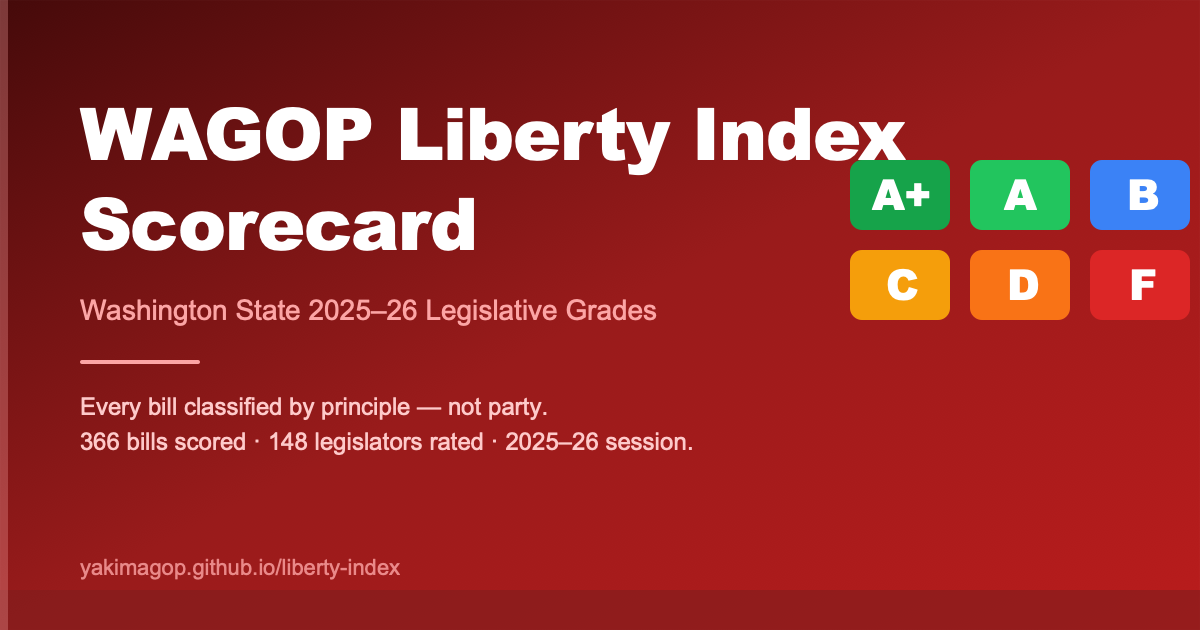
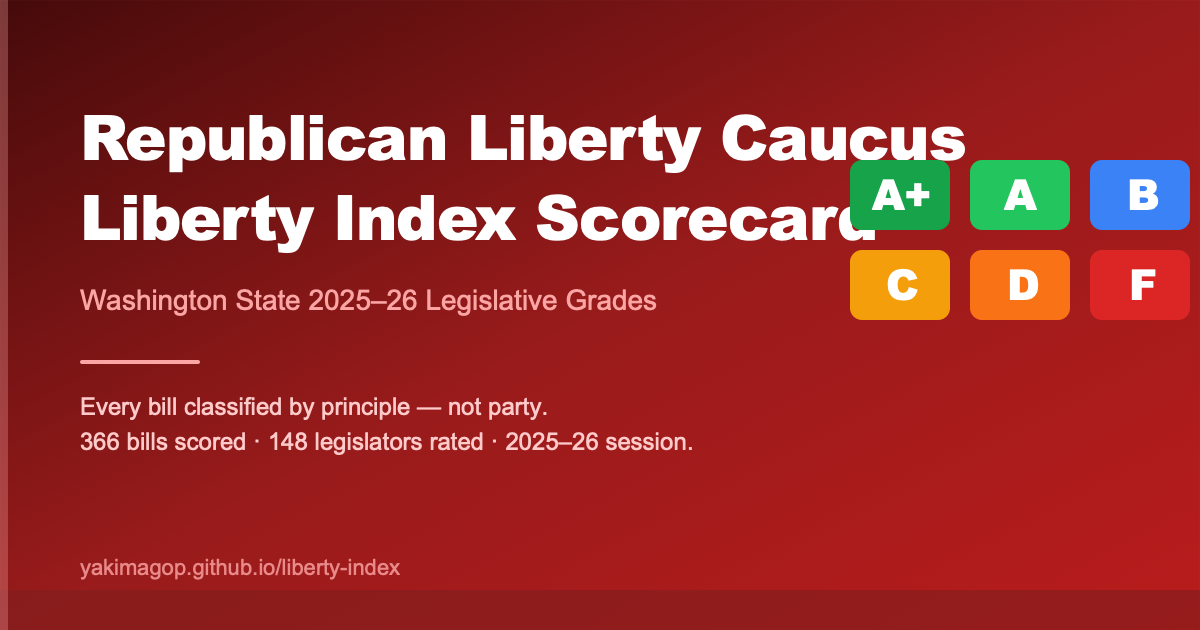
Rebrand from WAGOP to Republican Liberty Caucus of Washington
- Replace WAGOP logo with RLC Washington circular seal (rlc-logo.png)
- Update all headers, alt text, site name, and metadata descriptions
- Update OG image title text to "Republican Liberty Caucus Liberty Index"
- Header subtitle now reads "Republican Liberty Caucus of Washington · 2025–26"

Changed region(s): [[0.0617, 0.1508, 0.8017, 0.3016], [0.0617, 0.3016, 0.74, 0.4222], [0.0617, 0.4524, 0.555, 0.5127]]

diff --git a/src/app/methodology/page.tsx b/src/app/methodology/page.tsx
@@ -4,9 +4,9 @@ import { getScoreData } from "@/lib/data";
 
 export const metadata: Metadata = {
   title: "Scoring Methodology",
-  description: "How the WAGOP Liberty Index works: bill classification by conservative principle, category weights calibrated to the 2024 RNC and WA State Republican Party platforms, and normalization to a 0–100 score.",
+  description: "How the RLC Washington Liberty Index works: bill classification by conservative principle, category weights calibrated to the 2024 RNC and WA State Republican Party platforms, and normalization to a 0–100 score.",
   openGraph: {
-    title: "Scoring Methodology | WAGOP Liberty Index Scorecard",
+    title: "Scoring Methodology | RLC Washington Liberty Index Scorecard",
     description: "How every bill is classified by principle and every legislator is scored — weights calibrated to the 2024 RNC and WA State Republican Party platforms.",
     url: "https://yakimagop.github.io/liberty-index/methodology",
   },
@@ -22,7 +22,7 @@ export default function MethodologyPage() {
           <Link href="/" className="text-red-300 hover:text-white text-sm transition-colors">← Back to Scorecard</Link>
           <span className="text-red-700">|</span>
           {/* eslint-disable-next-line @next/next/no-img-element */}
-          <img src={`${process.env.NEXT_PUBLIC_BASE_PATH ?? ""}/wagop-logo.png`} alt="WAGOP Liberty Index Scorecard" width={100} height={29} className="brightness-0 invert opacity-80" />
+          <img src={`${process.env.NEXT_PUBLIC_BASE_PATH ?? ""}/rlc-logo.png`} alt="RLC Washington Liberty Index Scorecard" width={40} height={40} className="rounded-full" />
         </div>
       </header>
 

diff --git a/src/app/page.tsx b/src/app/page.tsx
@@ -18,10 +18,10 @@ export default function HomePage() {
         <div className="max-w-7xl mx-auto px-4 sm:px-6 lg:px-8 py-3 flex items-center justify-between gap-3">
           <div className="flex items-center gap-3 min-w-0">
             {/* eslint-disable-next-line @next/next/no-img-element */}
-            <img src={`${process.env.NEXT_PUBLIC_BASE_PATH ?? ""}/wagop-logo.png`} alt="Washington State Republican Party" width={120} height={35} className="brightness-0 invert flex-shrink-0" />
+            <img src={`${process.env.NEXT_PUBLIC_BASE_PATH ?? ""}/rlc-logo.png`} alt="Republican Liberty Caucus of Washington" width={48} height={48} className="rounded-full flex-shrink-0" />
             <div className="border-l border-red-700 pl-3 hidden sm:block">
               <h1 className="text-lg font-bold tracking-tight leading-tight whitespace-nowrap">Liberty Index Scorecard</h1>
-              <p className="text-red-300 text-xs mt-0.5">Washington State 2025–26 Legislative Grades</p>
+              <p className="text-red-300 text-xs mt-0.5">Republican Liberty Caucus of Washington · 2025–26</p>
             </div>
           </div>
           <nav className="flex-shrink-0">

diff --git a/src/app/rep/[id]/page.tsx b/src/app/rep/[id]/page.tsx
@@ -105,7 +105,7 @@ export default async function RepPage({ params }: { params: Promise<{ id: string
           <Link href="/" className="text-red-300 hover:text-white text-sm transition-colors">← All Legislators</Link>
           <span className="text-red-700">|</span>
           {/* eslint-disable-next-line @next/next/no-img-element */}
-          <img src={`${process.env.NEXT_PUBLIC_BASE_PATH ?? ""}/wagop-logo.png`} alt="WAGOP Liberty Index Scorecard" width={100} height={29} className="brightness-0 invert opacity-80" />
+          <img src={`${process.env.NEXT_PUBLIC_BASE_PATH ?? ""}/rlc-logo.png`} alt="RLC Washington Liberty Index Scorecard" width={40} height={40} className="rounded-full opacity-90" />
         </div>
       </header>
 

diff --git a/src/app/layout.tsx b/src/app/layout.tsx
@@ -8,9 +8,9 @@ const geistSans = Geist({
 });
 
 const SITE_URL = "https://yakimagop.github.io/liberty-index";
-const SITE_NAME = "WAGOP Liberty Index Scorecard";
+const SITE_NAME = "RLC Washington Liberty Index Scorecard";
 const DESCRIPTION =
-  "Washington State Republican Party Liberty Index — principled conservative grades for every WA legislator based on 2025–26 session floor votes. Every bill scored by principle, not party.";
+  "Republican Liberty Caucus of Washington Liberty Index — principled conservative grades for every WA legislator based on 2025–26 session floor votes. Every bill scored by principle, not party.";
 const OG_IMAGE = `${SITE_URL}/wagop-og.png`;
 
 export const metadata: Metadata = {
